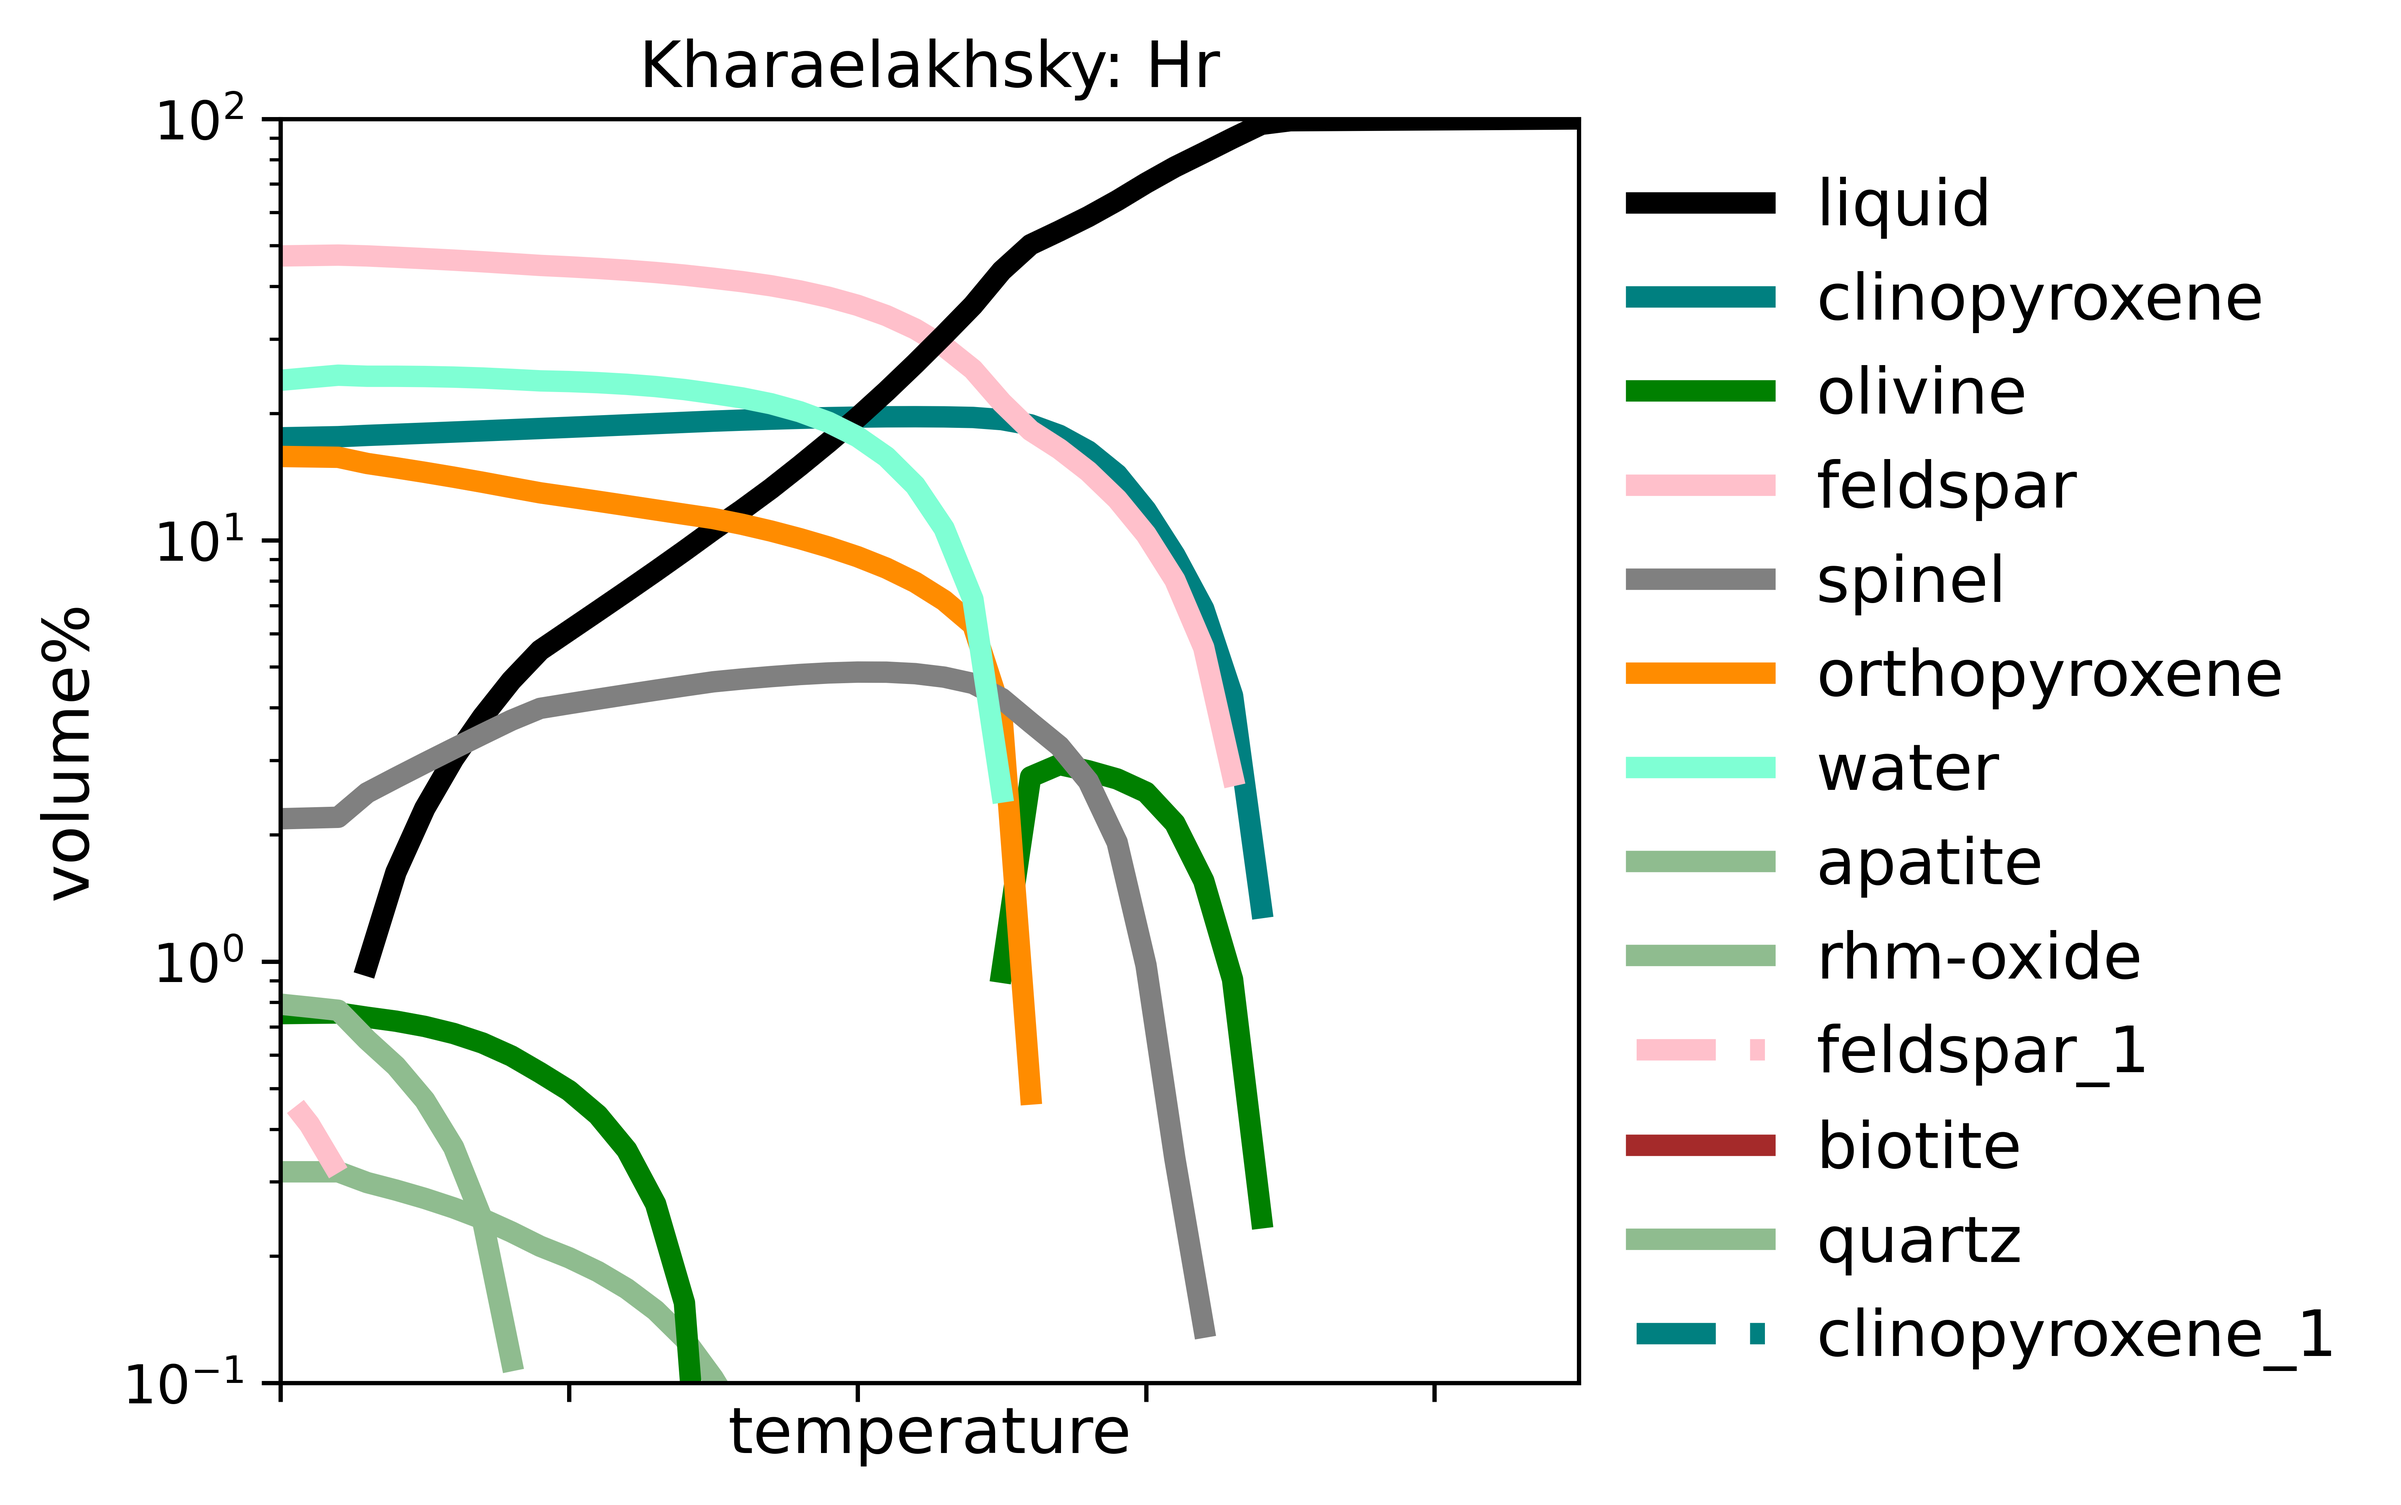
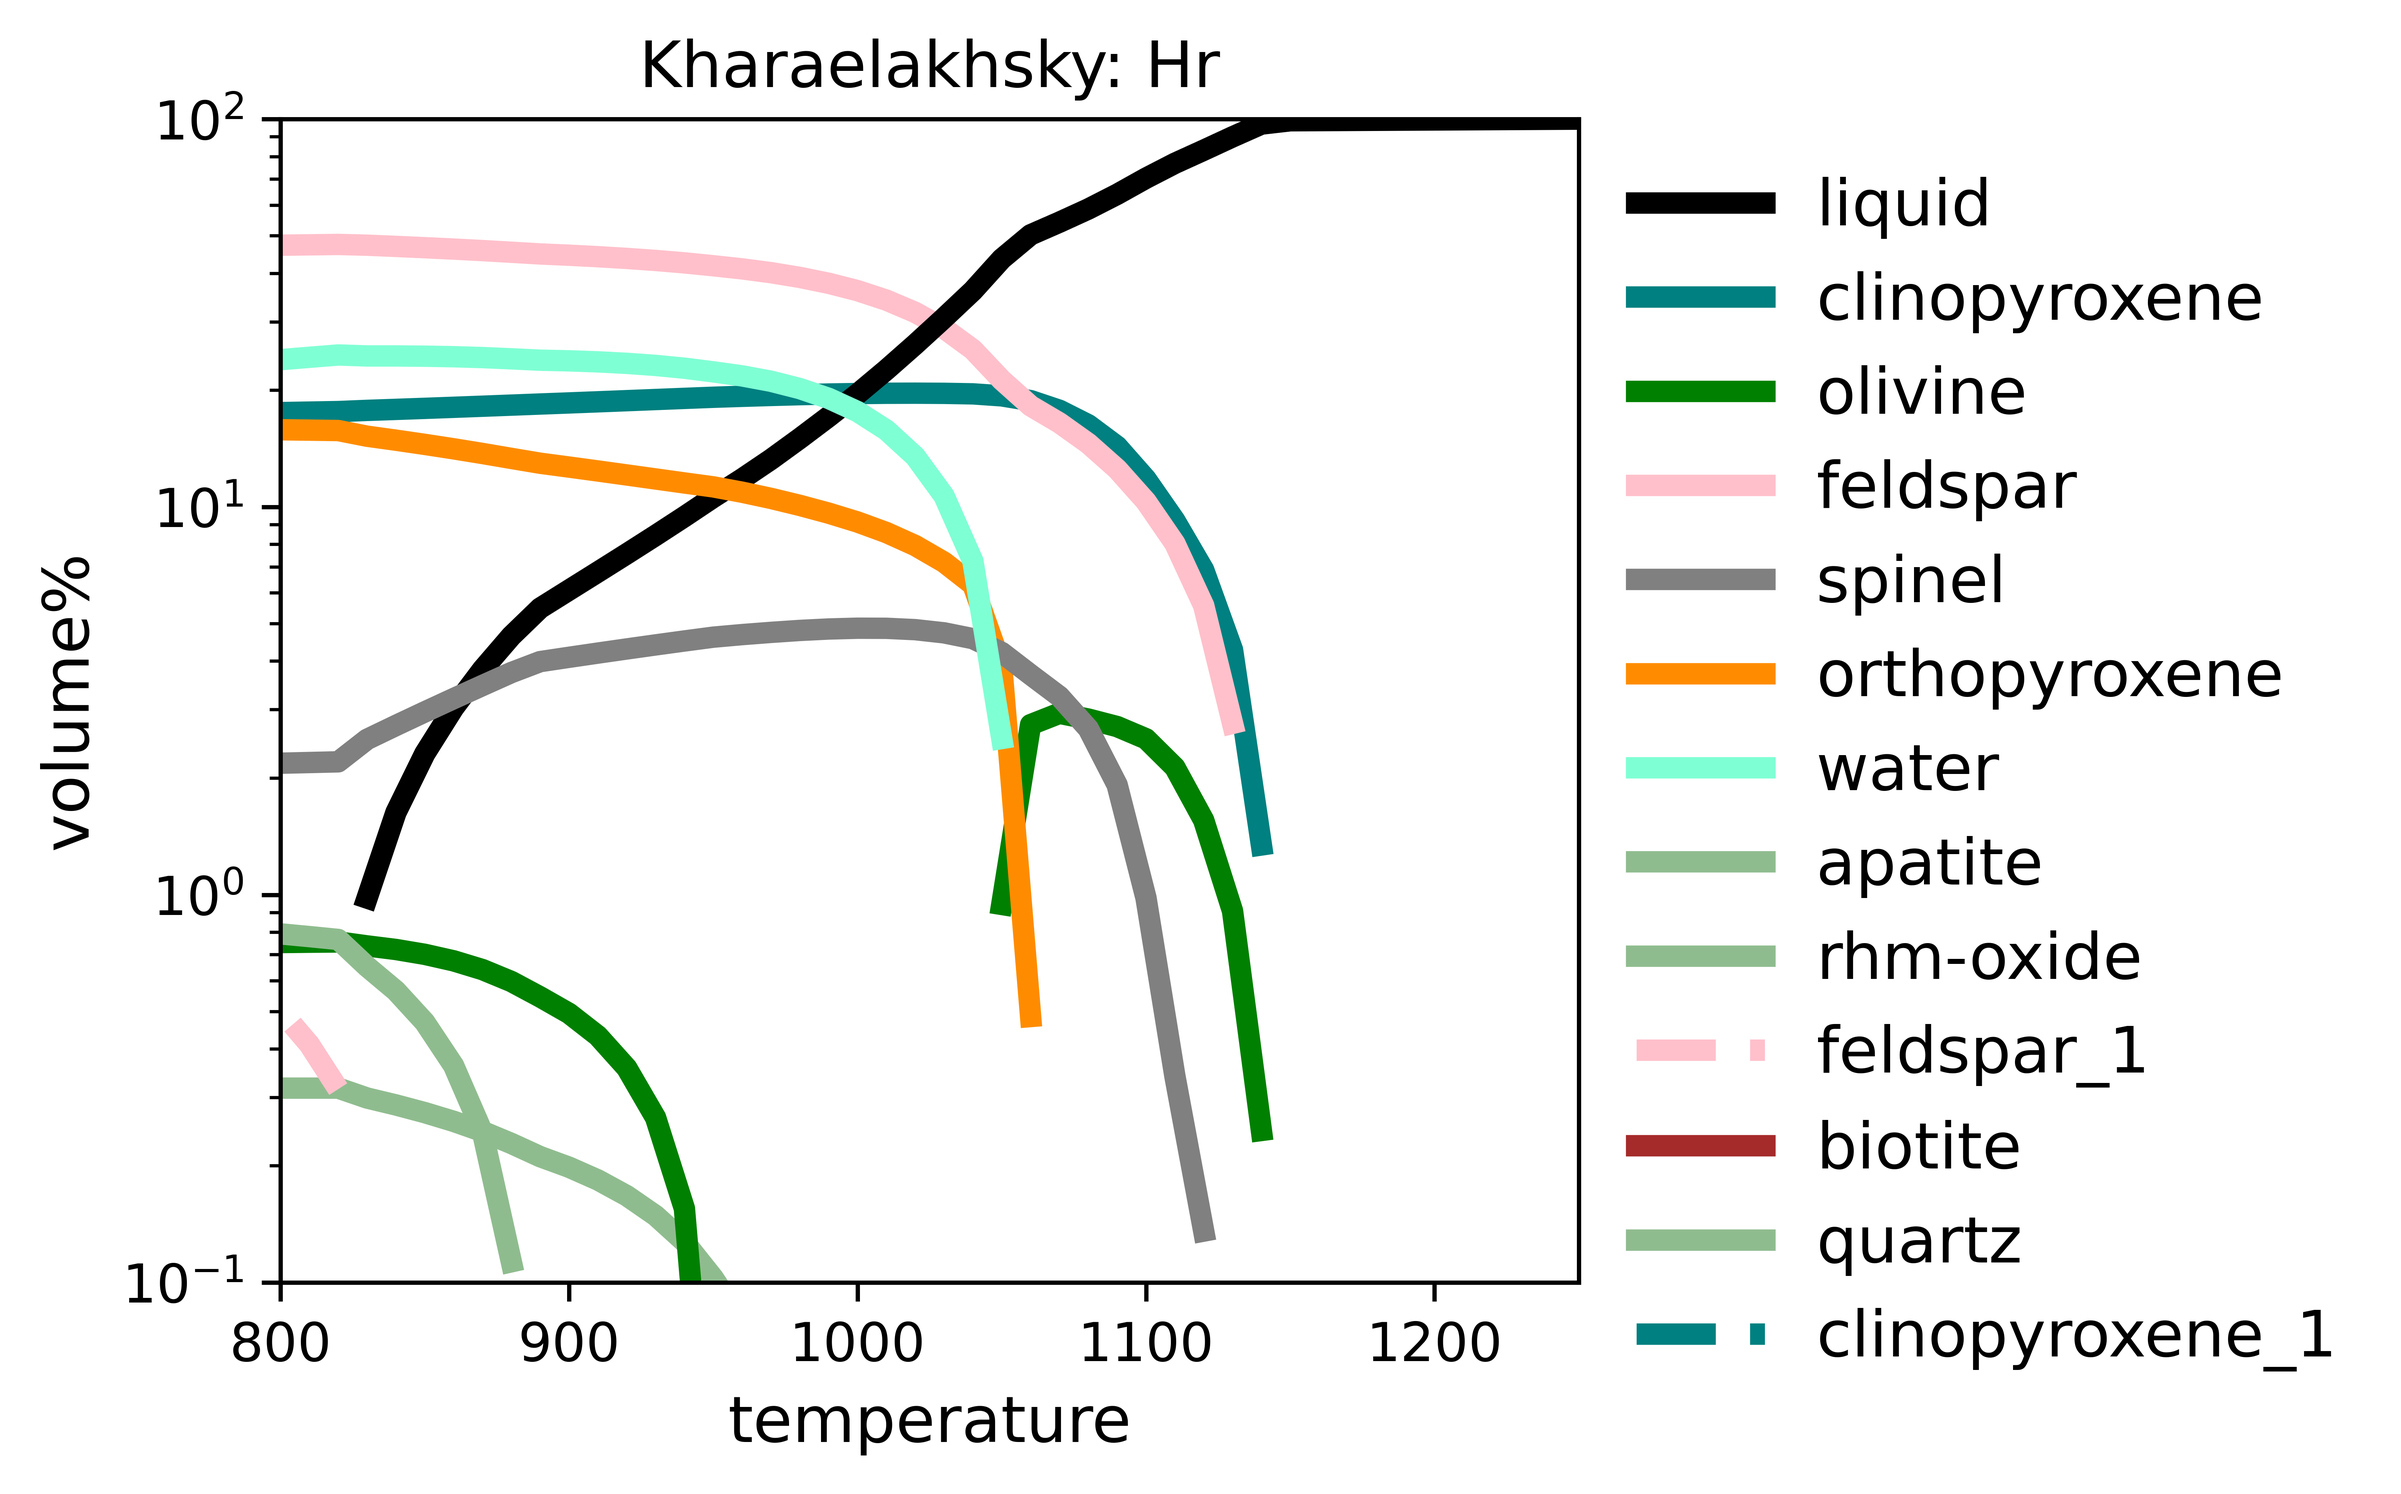
Update images

diff --git a/src/crystallisation_sequences.py b/src/crystallisation_sequences.py
@@ -65,19 +65,25 @@ fig, ax = _phasevolumes(
     legend_on=-2,
 )
 ax[-1].axis("off")
-save_figure(fig, name="Batch_1Wt%H2O", save_at="../img/", save_fmts=["png", "pdf"], dpi=800)
+save_figure(
+    fig, name="Batch_1Wt%H2O", save_at="../img/", save_fmts=["png", "pdf"], dpi=800
+)
 fig, ax = _phasevolumes(
     phases.loc[phases.experiment.isin(exprs)],
     config=cfg,
     n_across=4,
-    aspect=1,
+    aspect=0.8,
     unit_size=5,
-    exprs=sorted(exprs, key=lambda x: cfg[x][1]["Title"]),
+    exprs=[sorted(exprs, key=lambda x: cfg[x][1]["Title"])[0]], # only run one, so x axis has temp
     legend_on=0,
 )
 [a.set_visible(False) for a in ax[1:]]
 save_figure(
-    fig, name="Batch_1Wt%H2O_start", save_at="../img/", save_fmts=["png", "pdf"], dpi=1000
+    fig,
+    name="Batch_1Wt%H2O_start",
+    save_at="../img/",
+    save_fmts=["png", "pdf"],
+    dpi=1000,
 )
 
 #%%
@@ -100,7 +106,9 @@ fig, ax = _phasevolumes(
     legend_on=-2,
 )
 ax[-1].axis("off")
-save_figure(fig, name="Frac_1wt%H2O", save_at="../img/", save_fmts=["png", "pdf"], dpi=800)
+save_figure(
+    fig, name="Frac_1wt%H2O", save_at="../img/", save_fmts=["png", "pdf"], dpi=800
+)
 
 #%%
 from mod.sequence import sequence_distance
